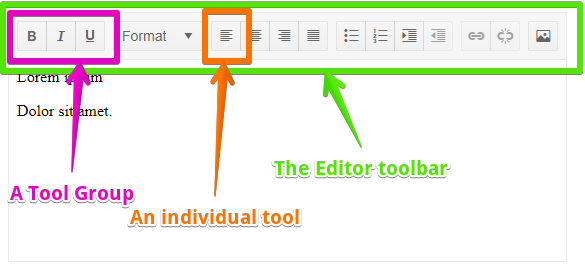
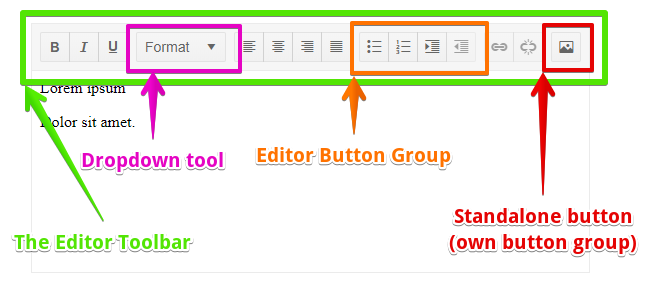
chore(editor): toolbar screenshot and ToC

diff --git a/components/editor/toolbar.md b/components/editor/toolbar.md
@@ -20,6 +20,10 @@ This article contains the following sections:
 * [Basics](#basics)
 * [Built-in Tool Lists](#built-in-tool-lists)
 * [Choose Toolbar Items](#choose-toolbar-items)
+	* [Add/Remove Tools From Existing Toolbar](#addremove-tools-from-existing-toolbar)
+	* [Create a Toolbar From Scratch](#create-a-toolbar-from-scratch)
+	* [Customize Built-in Tools](#customize-built-in-tools)
+
 
 ## Basics
 
@@ -60,7 +64,13 @@ To define a button group, add a `new EditorButtonGroup(comma-separated collectio
 
 Button groups can take only buttons, and dropdowns and custom tools cannot be added to them.
 
-### Add/Remove tools from existing toolbar
+>caption Examples:
+
+* [Add/Remove Tools From Existing Toolbar](#addremove-tools-from-existing-toolbar)
+* [Create a Toolbar From Scratch](#create-a-toolbar-from-scratch)
+* [Customize Built-in Tools](#customize-built-in-tools)
+
+### Add/Remove Tools From Existing Toolbar
 
 This example shows how to start from the existing `Default` toolbar collection of the editor and to modify it to:
 
